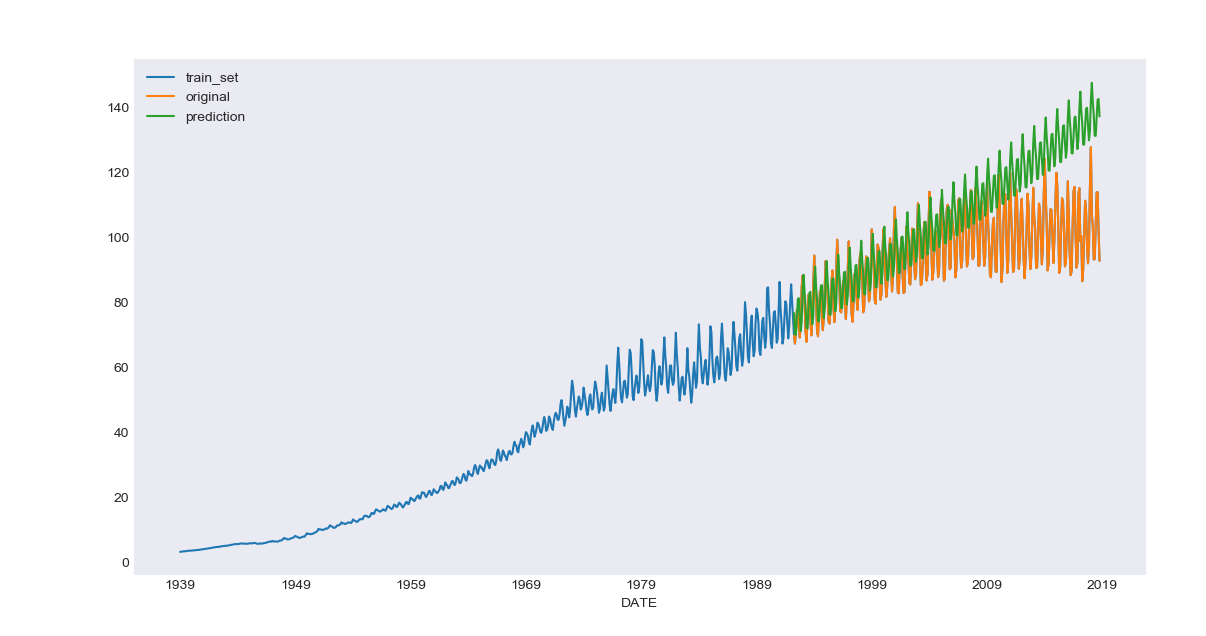
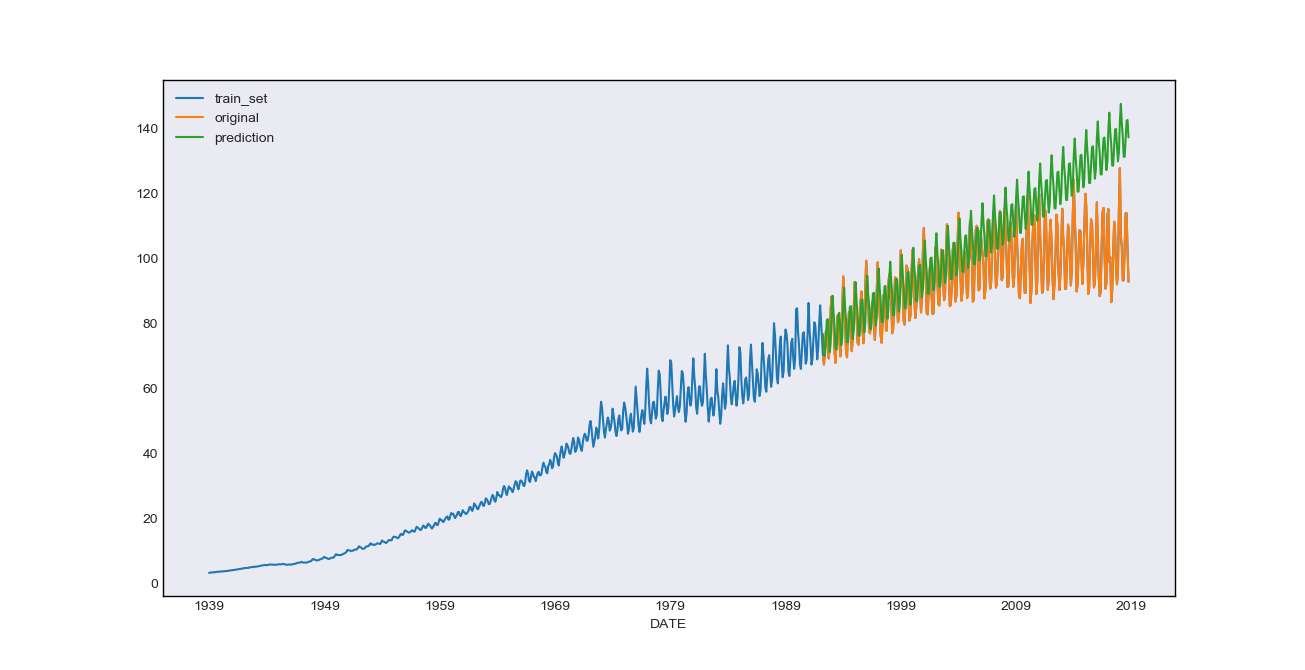
re-obtained ARIMA img

diff --git a/random_forest_regression/src/rfr.py b/random_forest_regression/src/rfr.py
@@ -6,6 +6,10 @@ from sklearn.metrics import mean_squared_error
 from sklearn.metrics import r2_score
 
 plt.style.use('seaborn-dark')
+plt.rcParams["axes.edgecolor"] = "black"
+plt.rcParams["axes.linewidth"] = 1
+plt.rcParams["lines.linewidth"] = 0.5
+plt.rcParams["lines.markersize"] = 3
 
 def main(data_df):
     assert isinstance(data_df, pd.DataFrame)
@@ -39,10 +43,6 @@ def print_summary(rf_model, features_names, test_actuals, test_pred):
 
 def plot_predictions(test_actuals, test_pred, errors):
     assert len(test_pred) == len(test_actuals)
-    plt.rcParams["axes.edgecolor"] = "black"
-    plt.rcParams["axes.linewidth"] = 1
-    plt.rcParams["lines.linewidth"] = 0.5
-    plt.rcParams["lines.markersize"]=3
     plt.subplot(2, 1, 1)
     plt.errorbar(list(range(0, len(test_actuals))), test_actuals, 
                 yerr=np.sqrt(errors), 

diff --git a/time_series/src/ts_utils.py b/time_series/src/ts_utils.py
@@ -6,13 +6,14 @@ from statsmodels.tsa.stattools import adfuller
 from statsmodels.tsa.seasonal import seasonal_decompose
 from statsmodels.tsa.arima_model import ARMAResults
 from pyramid.arima import auto_arima
+
 plt.style.use('seaborn-dark')
+plt.rcParams["axes.edgecolor"] = "black"
+plt.rcParams["axes.linewidth"] = 1
 
 # ----------------------------- #
 # define the object time series #
 # ----------------------------- #
-
-
 def get_ts():
     rng = pd.date_range('1/1/2018', periods=31, freq='H')
     ts = pd.Series(np.random.randn(len(rng)), index=rng)
